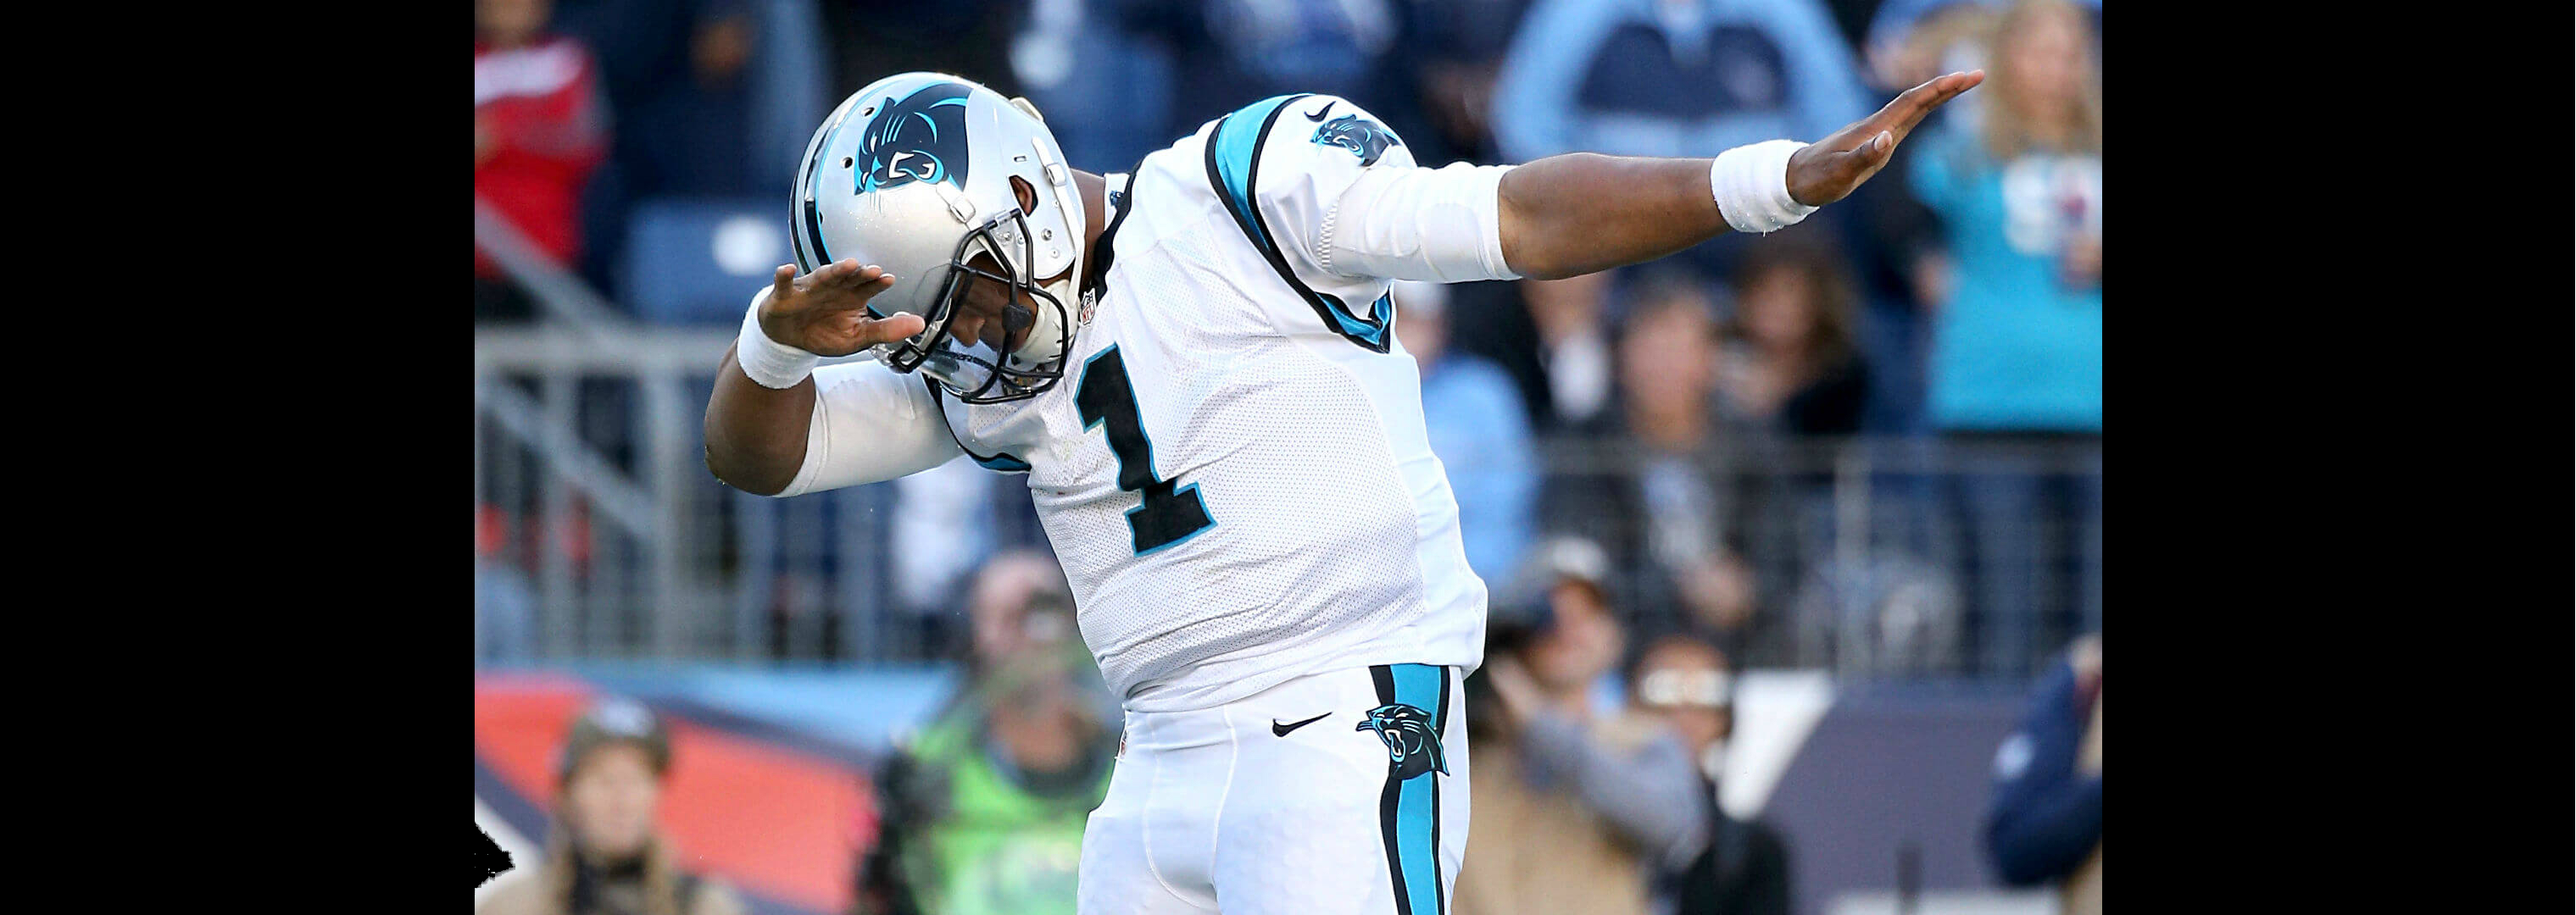
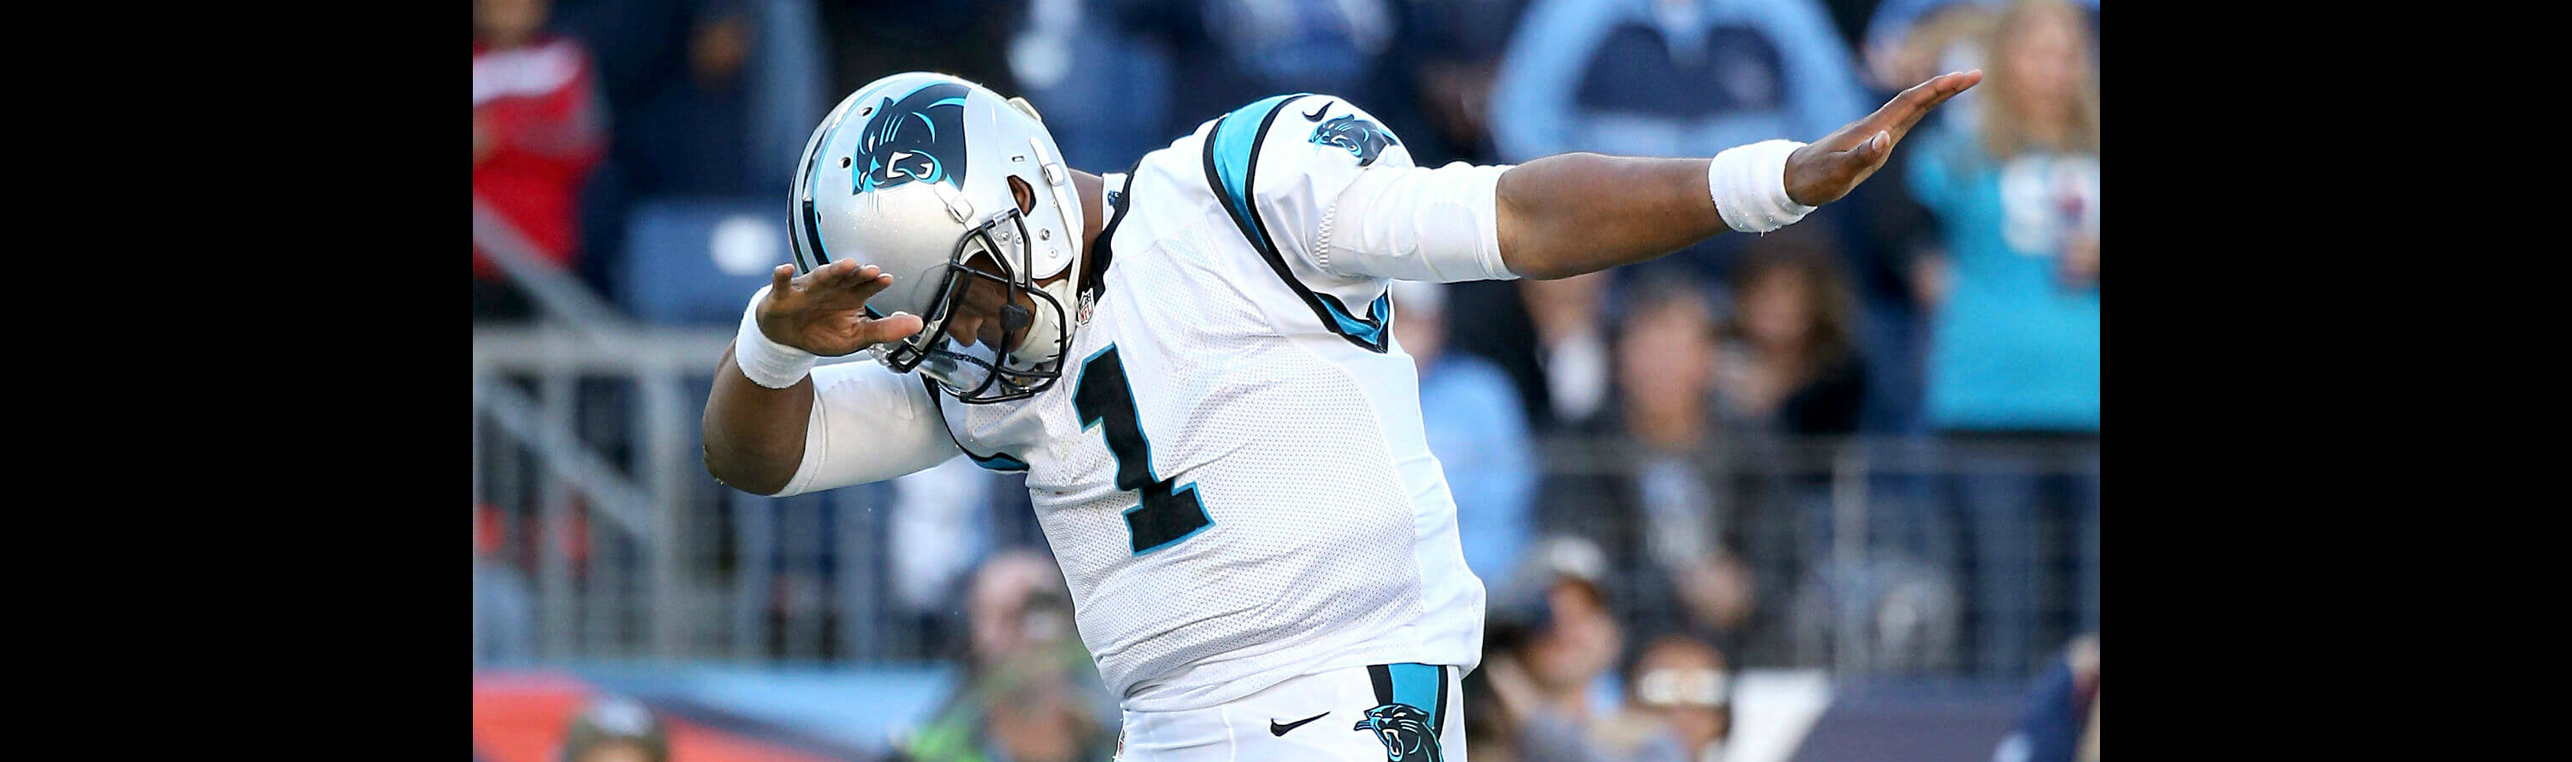
add media query and change background image

diff --git a/src/main/resources/public/app.css b/src/main/resources/public/app.css
@@ -1,4 +1,5 @@
 body {
+  margin-top: 100px;
   background-color: black;
   font-family: 'Josefin Sans', sans-serif;
   /*for notes*/
@@ -30,24 +31,39 @@ tr:hover {
   background-color: #e6eeff !important;
 }
 
+li .title {
+  padding-right: 20px;
+}
+
 .navbar-nav li a {
-    line-height: 100px;
-    height: 100px;
-    padding-top: 0;
-    font-size: 25px;
+  line-height: 100px;
+  height: 100px;
+  padding-top: 0;
+  font-size: 25px;
 }
 
 .stats-background {
   background-image: url("/background/field-black-small.jpg");
+  height: 100%;
+  min-height: 100vh;
+  background-attachment: fixed;
+  background-position: center;
+  background-repeat: no-repeat;
   background-size: cover;
-  height: 100vh;
   color: white;
 }
 
+.stats {
+  padding-top: 100px;
+}
+
+.player {
+  background-color: white;
+}
+
 .calculator-background {
-  background-image: url("/background/field.jpeg");
-  background-size: cover;
-  height: 100vh;
+  background-image: url("/background/teams.jpg");
+  background-size: contain;
 }
 
 .dataTables_wrapper {
@@ -61,11 +77,17 @@ tr:hover {
 
 .table {
   color: black;
-  /*font-size: 20px;*/
+}
+
+.black {
+  background-color: black;
+  color: white;
 }
 
 .radio-inline {
-  font-size: 20px;
+  font-size: 24px;
+  color: #C9CA91;
+  text-shadow: 2px 2px 5px black;
 }
 
 .icons {
@@ -73,12 +95,8 @@ tr:hover {
   width: auto;
 }
 
-li .title {
-  padding-right: 20px;
-}
-
 .navbar{
-    background-image: url("/carousel/black-banner.jpg");
+  background-image: url("/carousel/black-banner.jpg");
 }
 
 .black {
@@ -99,7 +117,7 @@ li .title {
   display: none;
 }
 
-.fantasy {
+.fantasy, .video {
   width: 560px;
   height: 315px;
   display: block;
@@ -126,5 +144,23 @@ li .title {
 }
 
 #myCarousel {
-  border-bottom: solid 30px black;
+  border-top: solid 55px black;
+  border-bottom: solid 60px black;
+}
+
+@media screen and (max-width: 767px) {
+  #myCarousel {
+    border-top: solid 0px black;
+    border-bottom: solid 0px black;
+  }
+  .navbar{
+    background-image:none;
+  }
+}
+
+@media screen and (max-width: 991px) {
+  #myCarousel {
+    border-top: solid 0px black;
+    border-bottom: solid 0px black;
+  }
 }

diff --git a/src/main/resources/public/datatables.js b/src/main/resources/public/datatables.js
@@ -58,6 +58,35 @@ tablete.on( 'order.dt search.dt', function () {
     } );
 } ).draw();
 
+var tablek = $('#k-table').DataTable({
+    "columnDefs": [ {
+        "searchable": false,
+        "orderable": false,
+        "targets": 0
+    } ],
+    "order": [[ 1, 'asc' ]]
+} );
+
+tablek.on( 'order.dt search.dt', function () {
+    tablek.column(0, {search:'applied', order:'applied'}).nodes().each( function (cell, i) {
+        cell.innerHTML = i+1;
+    } );
+} ).draw();
+
+var tablede = $('#de-table').DataTable({
+    "columnDefs": [ {
+        "searchable": false,
+        "orderable": false,
+        "targets": 0
+    } ],
+    "order": [[ 1, 'asc' ]]
+} );
+
+tablede.on( 'order.dt search.dt', function () {
+    tablede.column(0, {search:'applied', order:'applied'}).nodes().each( function (cell, i) {
+        cell.innerHTML = i+1;
+    } );
+} ).draw();
 
 $('#qb-table-box').show();
 

diff --git a/src/main/java/Team.java b/src/main/java/Team.java
@@ -21,6 +21,81 @@ public class Team {
 
   private static final String teamMath = "ORDER BY 10*(tackletotal/ (SELECT max(tackletotal) FROM team_stats)) + 10*(sacks/(SELECT max(sacks) FROM team_stats )) + 15*(sackyds/(SELECT max(sackyds) FROM team_stats  )) + 10*(passesdefended/(SELECT max(passesdefended) FROM team_stats  )) + 10*(stuffs/(SELECT max(stuffs) FROM team_stats  )) + 15*(interceptions/(SELECT max(interceptions) FROM team_stats  )) + 10*(intyds/(SELECT max(intyds) FROM team_stats  )) + 10*(inttd/(SELECT max(inttd) FROM team_stats  )) + 20*(fumforced/(SELECT max(fumforced) FROM team_stats  )) + 10*(fumopprec/(SELECT max(fumopprec) FROM team_stats  )) + 10*(stuffyds/(SELECT max(stuffyds) FROM team_stats  )) - 50*(pointsagainst/(SELECT max(pointsagainst) FROM team_stats  )) + 20*(fumtd/(SELECT max(fumtd) FROM team_stats  )) DESC LIMIT ";
 
+  public String getTeamName() {
+    return teamname;
+  }
+
+  public int getTotalTackles() {
+    return totaltackles;
+  }
+
+  public int getSacks() {
+    return sacks;
+  }
+
+  public int getSackYds() {
+    return sackyds;
+  }
+
+  public int getPd() {
+    return pd;
+  }
+
+  public int getStuffs() {
+    return stuffs;
+  }
+
+  public int getInterceptions() {
+    return interceptions;
+  }
+
+  public int getInterceptionYards() {
+    return interceptionyards;
+  }
+
+  public int getInterceptionTds() {
+    return interceptiontds;
+  }
+
+  public int getForcedFumble() {
+    return forcedfumble;
+  }
+
+  public int getRecoveredFumble() {
+    return recoveredfumble;
+  }
+
+  public int getStuffYds() {
+    return stuffyds;
+  }
+
+  public int getTdFromFumble() {
+    return tdfromfumble;
+  }
+
+  public int getPointsAgainst() {
+    return pointsagainst;
+  }
+
+  public String getTeamImg() {
+    return "/images/" + this.teamname + ".gif";
+  }
+
+  public static List<Team> all() {
+    try(Connection con = DB.sql2o.open()) {
+      String sql = "SELECT " + columns + "FROM team_stats;";
+      return con.createQuery(sql)
+      .addColumnMapping("tackletotal", "totaltackles")
+      .addColumnMapping("passesdefended", "pd")
+      .addColumnMapping("intyds", "interceptionyards")
+      .addColumnMapping("inttd", "interceptiontds")
+      .addColumnMapping("fumforced", "forcedfumble")
+      .addColumnMapping("fumopprec", "recoveredfumble")
+      .addColumnMapping("fumtd", "tdfromfumble")
+      .executeAndFetch(Team.class);
+    }
+  }
+
   public static Team getBestTeam() {
     try(Connection con = DB.sql2o.open()) {
       String sql = "SELECT " + columns +

diff --git a/src/main/java/K.java b/src/main/java/K.java
@@ -42,7 +42,22 @@ public class K extends Player{
     return fgblk;
   }
 
-  public static QB find(int id) {
+  public static List<K> all() {
+    try(Connection con = DB.sql2o.open()) {
+      String sql = "SELECT " + columns + "FROM stats WHERE position = 'K';";
+      return con.createQuery(sql)
+        .addColumnMapping("player_id", "playerId")
+        .addColumnMapping("first_name", "firstName")
+        .addColumnMapping("last_name", "lastName")
+        .addColumnMapping("team_name", "team")
+        .addColumnMapping("games_played", "gamesplayed")
+        .addColumnMapping("birth_date", "birthDate")
+        .addColumnMapping("birth_city", "birthCity")
+        .executeAndFetch(K.class);
+    }
+  }
+
+  public static K find(int id) {
     try(Connection con = DB.sql2o.open()) {
       String sql = "SELECT " + columns + " FROM stats WHERE player_id = :id;";
       return con.createQuery(sql)
@@ -54,7 +69,7 @@ public class K extends Player{
         .addColumnMapping("games_played", "gamesplayed")
         .addColumnMapping("birth_date", "birthDate")
         .addColumnMapping("birth_city", "birthCity")
-        .executeAndFetchFirst(QB.class);
+        .executeAndFetchFirst(K.class);
     }
   }
 

diff --git a/src/main/java/App.java b/src/main/java/App.java
@@ -26,7 +26,7 @@ public class App {
       System.out.println(wr.getLastName());
       i++;
     }
-    
+
     get("/", (request, response) -> {
       Map<String, Object> model = new HashMap<String, Object>();
       model.put("template", "templates/index.vtl");
@@ -39,7 +39,8 @@ public class App {
       model.put("rbs", RB.all());
       model.put("tes", TE.all());
       model.put("wrs", WR.all());
-      //model.put("ks", K.all());
+      model.put("ks", K.all());
+      model.put("des", Team.all());
       model.put("template", "templates/stats.vtl");
       return new ModelAndView(model, layout);
     }, new VelocityTemplateEngine());
